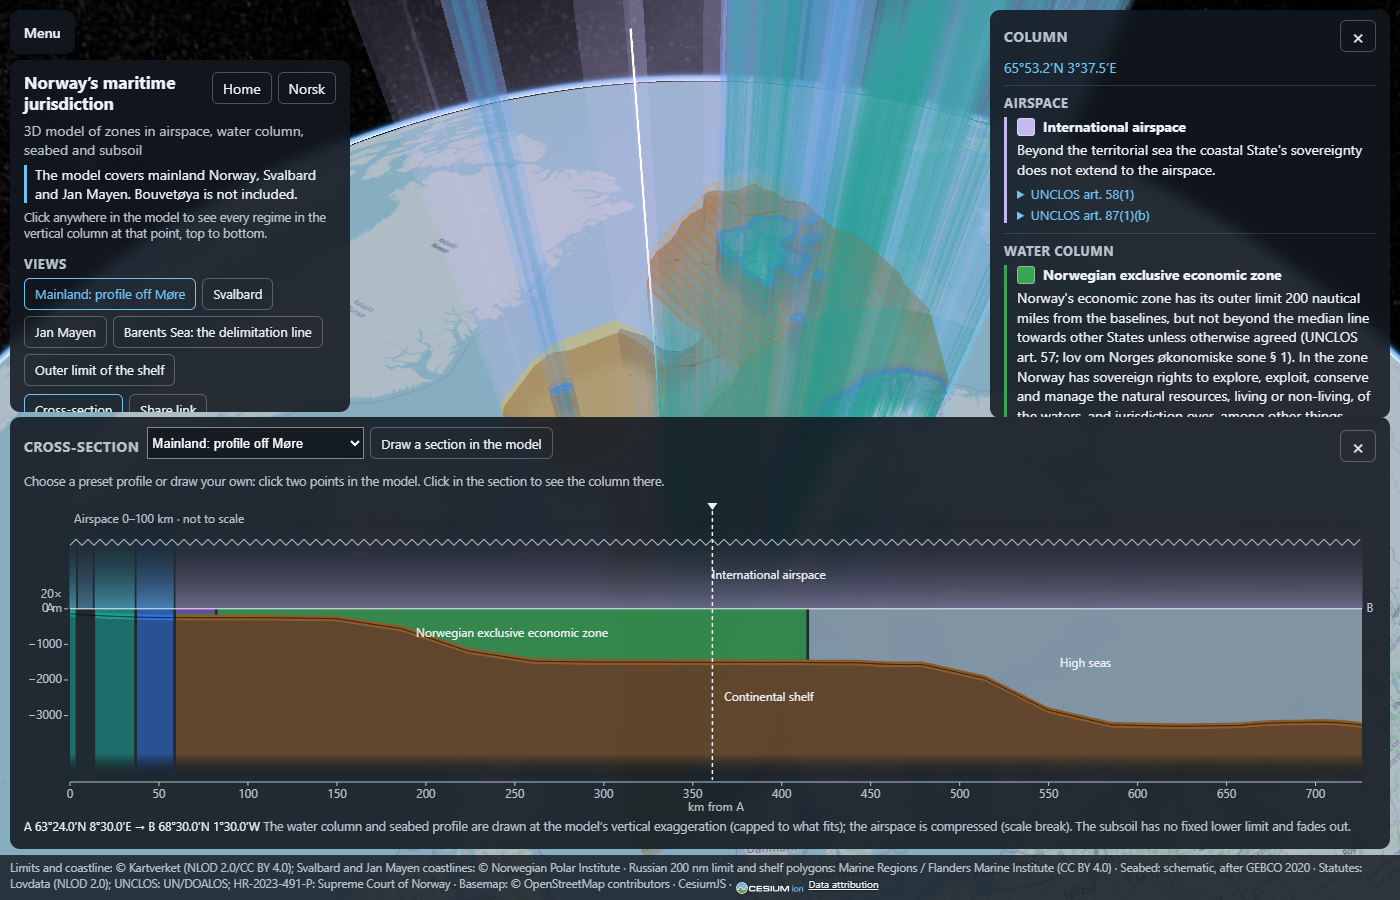
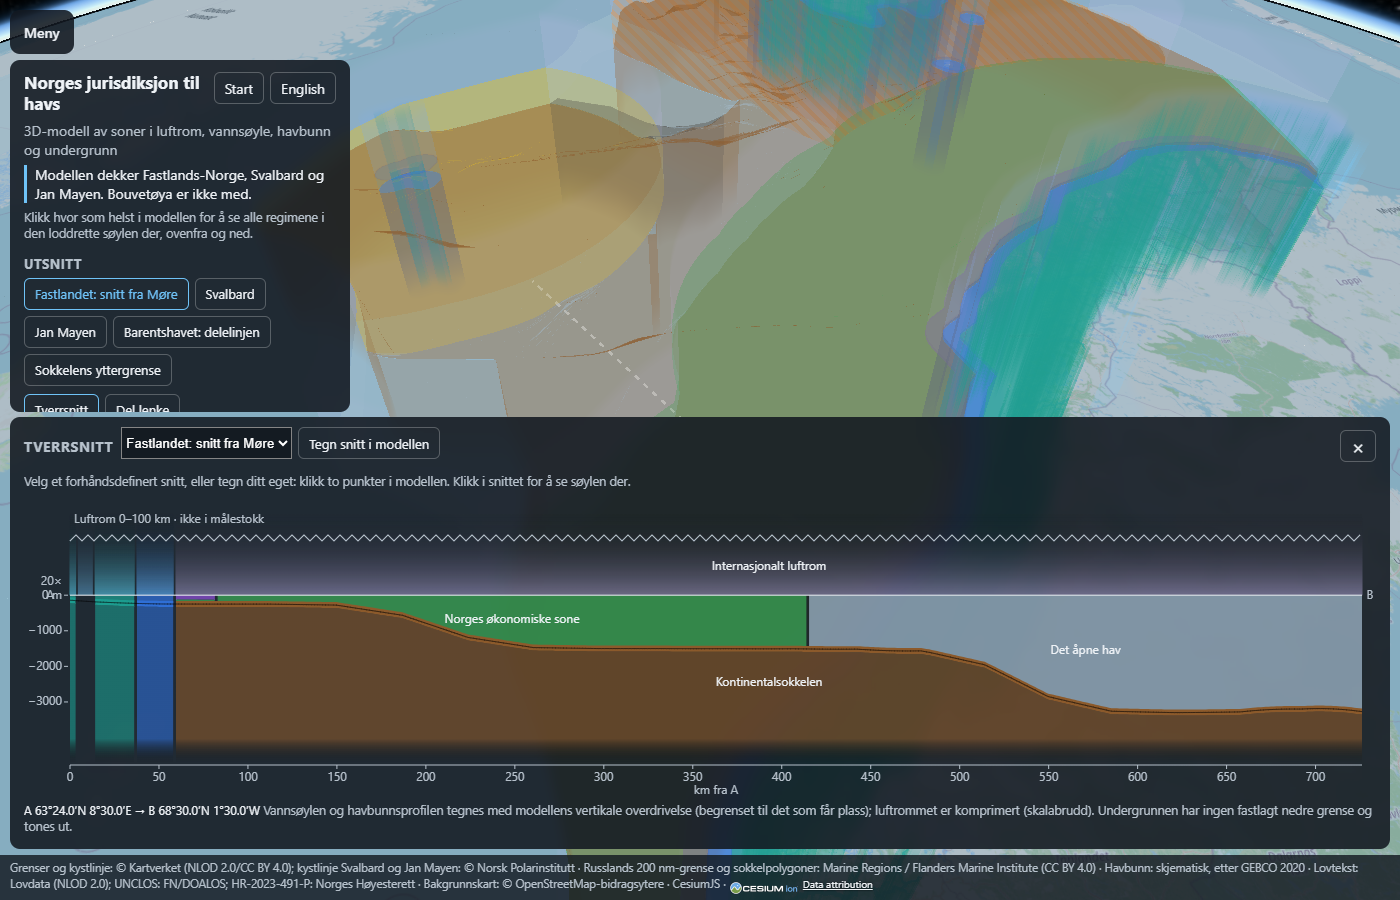
Draw the airspace at true scale regardless of the slider
The exaggeration is for the seabed; 100 km of airspace at 20x was a 2 000 km
wall. stratumFactor() returns 1 for the airspace, the readout says so, the
preset cameras come down to where the model fills the view, and the URL
heading is normalised after rounding (no more "360.0").

diff --git a/code/src/config.js b/code/src/config.js
@@ -25,6 +25,10 @@ export const AIRSPACE = {
   top: 100_000, // m — Kármán line; the upper limit of national airspace is undefined in law
   fadeFrom: 80_000, // m — the top 20 km fade to transparent rather than end in a surface
 };
+// The slider exaggerates the water column, seabed and subsoil only. The airspace is always drawn
+// at true scale (owner decision 2026-09-17): 100 km is legible as it is, and 20× of it was a
+// 2 000 km fence. The readout says so whenever the factor is not 1.
+export const stratumFactor = (stratum, factor) => (stratum === 'airspace' ? 1 : factor);
 export const SUBSOIL = {
   thickness: 10_000, // m below the seabed — nominal; the legal concept has no fixed lower limit
   fadeFrom: 6_000, // m below the seabed where the slab starts fading (bounded-but-open)
@@ -85,26 +89,27 @@ export const STRATA_ORDER = ['airspace', 'watercolumn', 'seabed', 'subsoil'];
 
 // Preset viewpoints (SPEC §7): a camera and, where the view is about a profile, the transect the
 // cross-section shows. Transect endpoints are viewing choices, not legal geometry: each was chosen
-// so that the profile crosses the zones named in the comment (checked against zones.json).
+// so that the profile crosses the zones named in the comment (checked against zones.json). Cameras
+// look obliquely from the south so the 100 km airspace walls read as walls.
 export const VIEWS = {
   'mainland-section': { // Møre → north-west: internal waters, TS, contiguous zone, EEZ, high seas over the shelf
-    camera: { lon: 6.0, lat: 54.0, height: 3_800_000, heading: 0, pitch: -68 },
+    camera: { lon: 4.0, lat: 58.5, height: 1_100_000, heading: 0, pitch: -55 },
     transect: [[8.5, 63.4], [-1.5, 68.5]],
   },
   svalbard: { // Isfjorden → north: TS, fisheries protection zone, shelf, high seas beyond 200 nm (Nansen Basin)
-    camera: { lon: 16.0, lat: 68.0, height: 4_000_000, heading: 0, pitch: -68 },
+    camera: { lon: 15.0, lat: 74.2, height: 1_200_000, heading: 0, pitch: -55 },
     transect: [[15.0, 78.2], [15.0, 85.5]],
   },
   janmayen: { // Jan Mayen → north-east: TS, fisheries zone over the shelf, high seas over the Area
-    camera: { lon: -6.0, lat: 62.0, height: 3_500_000, heading: 0, pitch: -68 },
+    camera: { lon: -5.5, lat: 66.5, height: 900_000, heading: 0, pitch: -55 },
     transect: [[-8.7, 71.0], [-1.0, 74.8]],
   },
   'barents-delimitation': { // Finnmark → north across the Loop Hole, then the Svalbard zone; the 2010 treaty line to the east
-    camera: { lon: 33.0, lat: 63.0, height: 4_000_000, heading: 0, pitch: -68 },
+    camera: { lon: 29.0, lat: 67.0, height: 1_000_000, heading: 0, pitch: -55 },
     transect: [[28.0, 71.0], [30.0, 75.5]],
   },
   'shelf-outer-limit': { // Lofoten → north-west: EEZ, high seas over the shelf beyond 200 nm (Banana Hole), Jan Mayen zone
-    camera: { lon: 5.0, lat: 58.0, height: 4_200_000, heading: 0, pitch: -68 },
+    camera: { lon: 7.5, lat: 62.5, height: 1_100_000, heading: 0, pitch: -55 },
     transect: [[14.5, 68.0], [2.0, 71.5]],
   },
 };

diff --git a/code/src/columnQuery.js b/code/src/columnQuery.js
@@ -5,7 +5,7 @@
 // is derived here beyond "is this point inside that polygon" (SPEC §10.2).
 //
 // Cesium is the CDN global (see index.html), not an import.
-import { MODEL_BBOX, STRATA_ORDER, AIRSPACE, SUBSOIL, PROBE } from './config.js';
+import { MODEL_BBOX, STRATA_ORDER, AIRSPACE, SUBSOIL, PROBE, stratumFactor } from './config.js';
 import { zones, footprint, partsOf } from './zones.js';
 import { seabedDepth } from './seabed.js';
 import { t } from './i18n.js';
@@ -106,7 +106,7 @@ export function pickLonLat(scene, windowPosition) {
 
 // ---------------------------------------------------------------------------------------------
 // The probe: a vertical line on the globe through the whole queried column, from the bottom of the
-// (nominal) subsoil to the top of the airspace, at the current exaggeration.
+// (nominal) subsoil to the top of the airspace, at the current exaggeration (airspace: always 1×).
 
 export class Probe {
   constructor(viewer) {
@@ -124,7 +124,7 @@ export class Probe {
     this.exaggeration = exaggeration;
     if (!point) { this.entity.show = false; this.viewer.scene.requestRender(); return; }
     const bottom = (seabedDepth(point.lon, point.lat) - SUBSOIL.thickness) * exaggeration;
-    const top = AIRSPACE.top * exaggeration;
+    const top = AIRSPACE.top * stratumFactor('airspace', exaggeration);
     this.entity.polyline.positions = [
       Cesium.Cartesian3.fromDegrees(point.lon, point.lat, bottom),
       Cesium.Cartesian3.fromDegrees(point.lon, point.lat, top),

diff --git a/code/src/strata.js b/code/src/strata.js
@@ -5,7 +5,7 @@
 // (Cesium's Scene.verticalExaggeration does not apply to primitives — SPEC §5.1).
 //
 // Cesium is the CDN global (see index.html / vite.config.js), not an import.
-import { AIRSPACE, SUBSOIL, MESH, STRATUM_ALPHA, HATCH, SEABED_CLEARANCE } from './config.js';
+import { AIRSPACE, SUBSOIL, MESH, STRATUM_ALPHA, HATCH, SEABED_CLEARANCE, stratumFactor } from './config.js';
 import { seabedDepth } from './seabed.js';
 import { zones, footprint, colourOf } from './zones.js';
 
@@ -321,7 +321,7 @@ export class StrataModel {
     const t0 = performance.now();
     for (const v of this.volumes) {
       if (v.primitive) this.scene.primitives.remove(v.primitive);
-      v.primitive = makePrimitive(v.vol, factor, this.appearance);
+      v.primitive = makePrimitive(v.vol, stratumFactor(v.stratum, factor), this.appearance); // airspace stays 1×
       v.primitive.show = this.isVisible(v);
       this.scene.primitives.add(v.primitive);
     }

diff --git a/code/src/urlState.js b/code/src/urlState.js
@@ -35,7 +35,7 @@ const f4 = (v) => v.toFixed(4).replace(/\.?0+$/, '');
 export function encodeState(s) {
   const p = new URLSearchParams();
   if (s.view) p.set('view', s.view);
-  if (s.cam) p.set('cam', [f4(s.cam.lon), f4(s.cam.lat), Math.round(s.cam.height), (((s.cam.heading % 360) + 360) % 360).toFixed(1), s.cam.pitch.toFixed(1)].join(','));
+  if (s.cam) p.set('cam', [f4(s.cam.lon), f4(s.cam.lat), Math.round(s.cam.height), (Number((((s.cam.heading % 360) + 360) % 360).toFixed(1)) % 360).toFixed(1), s.cam.pitch.toFixed(1)].join(','));
   if (s.ex && s.ex !== s.exDefault) p.set('ex', String(s.ex));
   if (s.hide?.length) p.set('hide', s.hide.join(','));
   if (s.lang && s.lang !== 'no') p.set('lang', s.lang);

diff --git a/code/src/i18n.js b/code/src/i18n.js
@@ -9,6 +9,7 @@ export const STRINGS = {
     scope: 'Modellen dekker Fastlands-Norge, Svalbard og Jan Mayen. Bouvetøya er ikke med.',
     exaggeration: 'Vertikal overdrivelse',
     trueScale: 'sann skala',
+    airspaceTrueScale: 'luftrom 1×',
     strata: 'Lag',
     zones: 'Soner',
     airspace: 'Luftrom',
@@ -57,6 +58,7 @@ export const STRINGS = {
     scope: 'The model covers mainland Norway, Svalbard and Jan Mayen. Bouvetøya is not included.',
     exaggeration: 'Vertical exaggeration',
     trueScale: 'true scale',
+    airspaceTrueScale: 'airspace 1×',
     strata: 'Strata',
     zones: 'Zones',
     airspace: 'Airspace',

diff --git a/code/src/ui.js b/code/src/ui.js
@@ -103,7 +103,7 @@ export function buildUI(root, callbacks) {
   let timer = null;
   let factor = EXAGGERATION.initial;
   const showReadout = () => {
-    readout.textContent = factor === 1 ? `1× (${t('trueScale')})` : `${factor}×`;
+    readout.textContent = factor === 1 ? `1× (${t('trueScale')})` : `${factor}× · ${t('airspaceTrueScale')}`;
     for (const b of detents.children) b.classList.toggle('active', Number.parseInt(b.textContent, 10) === factor);
   };
   const onSlide = (immediate) => {

diff --git a/CLAUDE.md b/CLAUDE.md
@@ -85,6 +85,12 @@ EPSG:25833 instead (Krüger series; validated in PROVENANCE §4). Don't add pypr
   → midpoint subdivision to `MESH.maxEdgeDeg` → rows at per-vertex heights + walls along boundary
   edges (edges used by exactly one triangle, so holes get walls too). Nominal heights are cached per
   vertex; exaggeration = recompute positions + swap primitives (≈ 60 ms desktop for 380k vertices).
+- **The airspace is never exaggerated** (owner decision 2026-09-17, deviating from SPEC §5.1's single
+  factor): `config.js::stratumFactor` returns 1 for `airspace`, so the fence is always the nominal
+  100 km; the slider scales the water column, seabed and subsoil only, and the readout says
+  "20× · luftrom 1×". At 20× the airspace was a 2 000 km wall that hid everything and forced the
+  preset cameras up to 4 000 km. Apply `stratumFactor` wherever a nominal height is scaled
+  (`strata.js`, the probe in `columnQuery.js`).
 - Coincident surfaces are separated by `SEABED_CLEARANCE` (30 m nominal) to avoid z-fighting.
 - Bilingual strings: `no` / `en`. Norwegian statutory quotations stay Norwegian in both modes.
 - **Legal text is never typed, only extracted** (§10.1). `fetch_legal.py` stores the source documents
@@ -182,8 +188,9 @@ open: licence wording for the DOALOS text in `data/LICENSE.md`.
 + panel with every regime top to bottom, summary, `<details>` quotes, source links; on `en` the
 Court's translation under its own caveat), cross-section (`crossSection.js`: canvas profile along
 a transect, presets or two clicks in the model, click in the section → column there), preset
-views (`config.js::VIEWS`, cameras above the 20x airspace), URL state + "Del lenke"
-(`urlState.js`), phone layout (one 40 vh sheet). Verified in headless Chrome at 1400×900 and
+views (`config.js::VIEWS`), URL state + "Del lenke" (`urlState.js`), phone layout (one 40 vh
+sheet). On the owner's first review the airspace stopped being exaggerated (see Conventions) and the
+preset cameras came down to 0.9–1.2 Mm, pitch −55°. Verified in headless Chrome at 1400×900 and
 375×667 (`docs/renders/app-section-*.png`, `app-phone-section.png`): no page errors, state
 restores from the URL. Bundle 1 032 KB raw / 385 KB gzip — over SPEC §8's 900 KB raw target
 (the zone geometry alone is ~700 KB); gzip is what the wire carries. Not yet reviewed by the owner.
